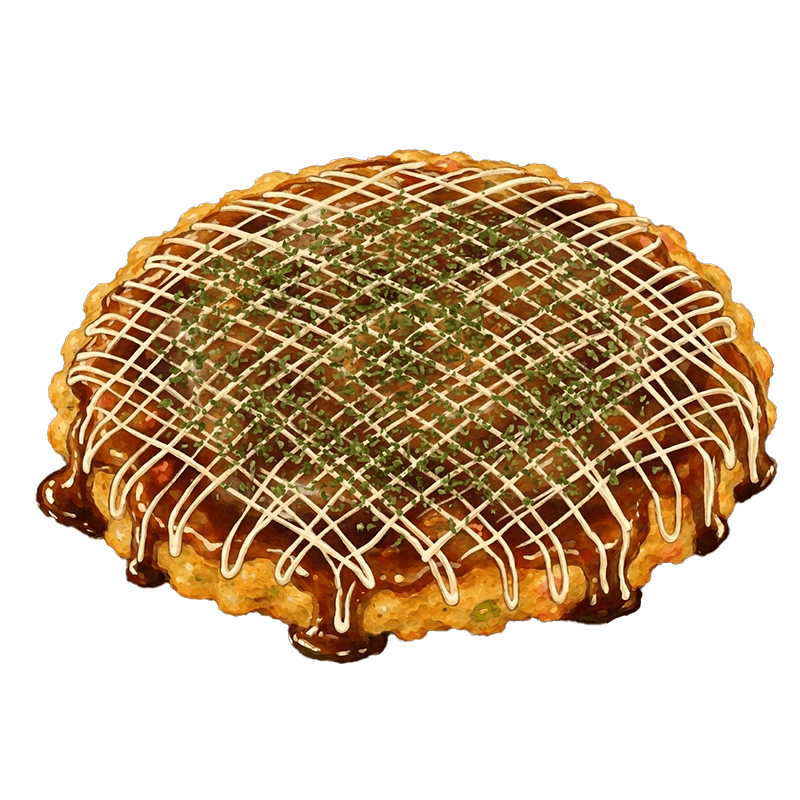
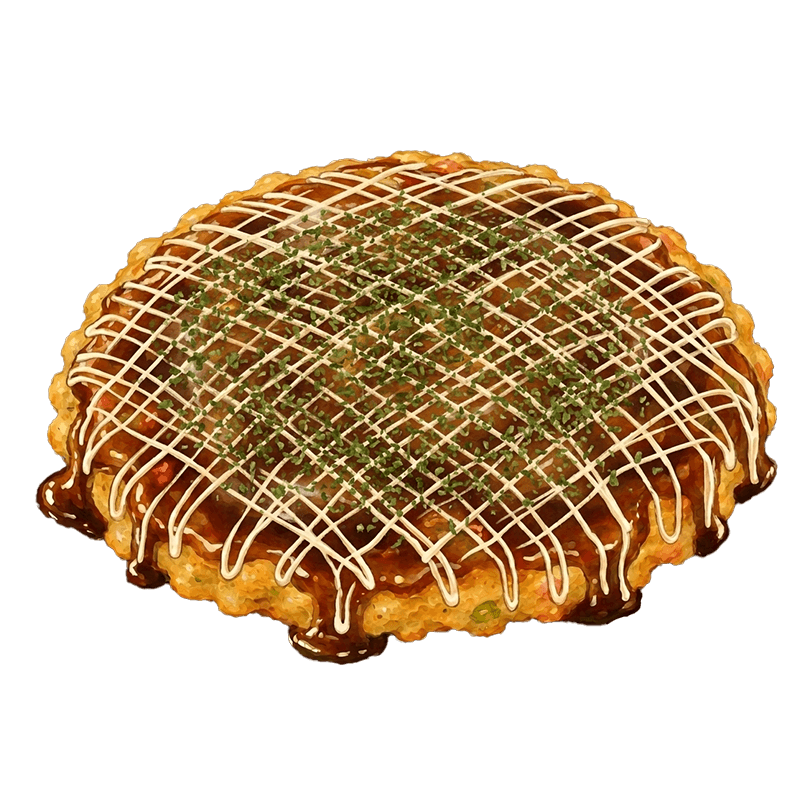
Updates

Changed region(s): [[0.0312, 0.1875, 0.9688, 0.8438]]

diff --git a/index.html b/index.html
@@ -5,8 +5,8 @@
     <meta name="viewport" content="width=device-width, initial-scale=1.0, maximum-scale=1.0, user-scalable=no" />
     <title>くるっと！おこのみやき</title>
     <link rel="icon" type="image/svg+xml" href="/okonomiyaki-game/favicon.svg" />
-    <script type="module" crossorigin src="/okonomiyaki-game/assets/index-BIBTpsU1.js"></script>
-    <link rel="stylesheet" crossorigin href="/okonomiyaki-game/assets/index-RRDXpSFK.css">
+    <script type="module" crossorigin src="/okonomiyaki-game/assets/index-mF0BMx5J.js"></script>
+    <link rel="stylesheet" crossorigin href="/okonomiyaki-game/assets/index-CIjd84h1.css">
   </head>
   <body>
     <div id="app">

diff --git a/assets/index-CIjd84h1.css b/assets/index-CIjd84h1.css
@@ -1,0 +1,1 @@
+*{box-sizing:border-box;-webkit-tap-highlight-color:transparent}html,body{touch-action:none;background:#fdf6e3;width:100%;height:100%;margin:0;padding:0;font-family:Hiragino Maru Gothic ProN,"Rounded Mplus 1c",sans-serif;overflow:hidden}#app{width:100%;max-width:480px;height:100dvh;margin:0 auto;position:relative;overflow:hidden}#game-canvas{background:#fdf6e3;width:100%;height:100%;display:block}#ui-layer{pointer-events:none;position:absolute;inset:0}#ui-layer button{pointer-events:auto}.btn{color:#fff;cursor:pointer;background:#ff8a3d;border:none;border-radius:999px;padding:14px 28px;font-family:inherit;font-size:18px;font-weight:700;box-shadow:0 4px #d96b1f}.btn:active{transform:translateY(2px);box-shadow:0 2px #d96b1f}.topping-bar{justify-content:center;gap:12px;display:flex;position:absolute;bottom:16px;left:0;right:0}.topping-icon{pointer-events:auto;cursor:pointer;background:#fff;border:3px solid #0000;border-radius:16px;justify-content:center;align-items:center;width:56px;height:56px;font-size:24px;display:flex}.topping-icon.selected{border-color:#ff8a3d}#rotate-overlay{display:none}@media screen and (orientation:landscape) and (hover:none){#app{display:none}#rotate-overlay{text-align:center;background:#fdf6e3;flex-direction:column;justify-content:center;align-items:center;width:100vw;height:100dvh;display:flex}#rotate-overlay .rotate-icon{font-size:64px;animation:1.6s ease-in-out infinite rotate-hint;display:inline-block}#rotate-overlay p{color:#5a2d0c;margin-top:16px;font-size:20px;font-weight:700;line-height:1.5}}@keyframes rotate-hint{0%,to{transform:rotate(0)}50%{transform:rotate(-90deg)}}